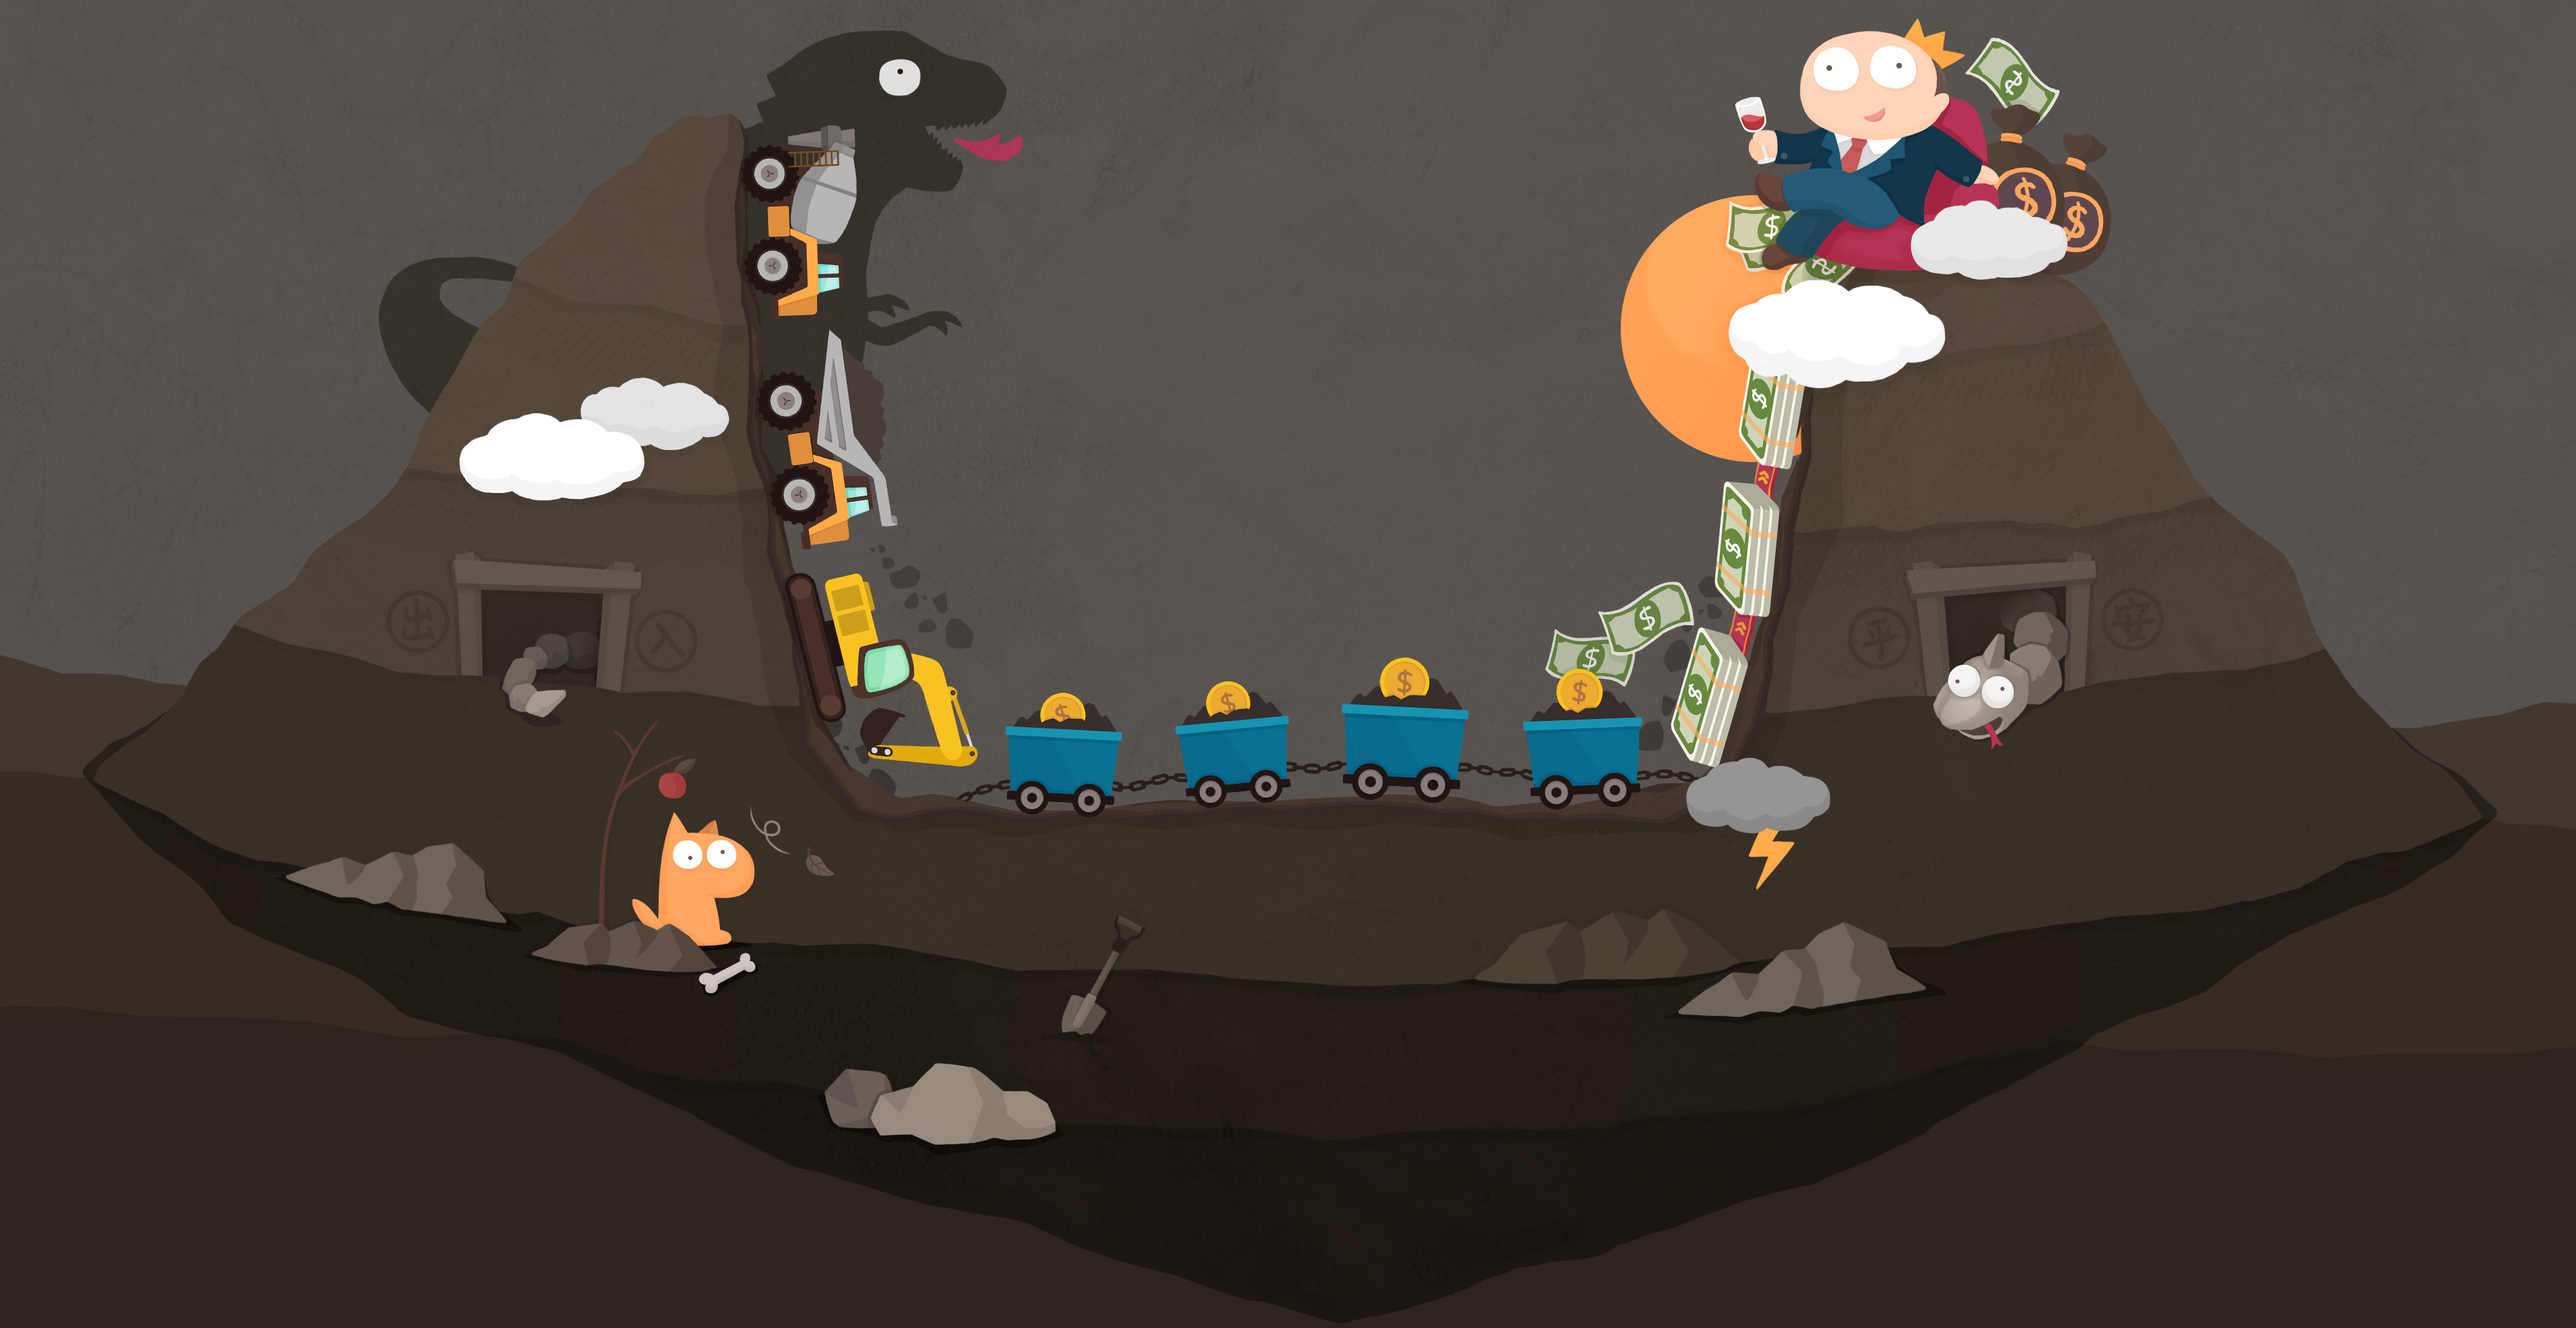
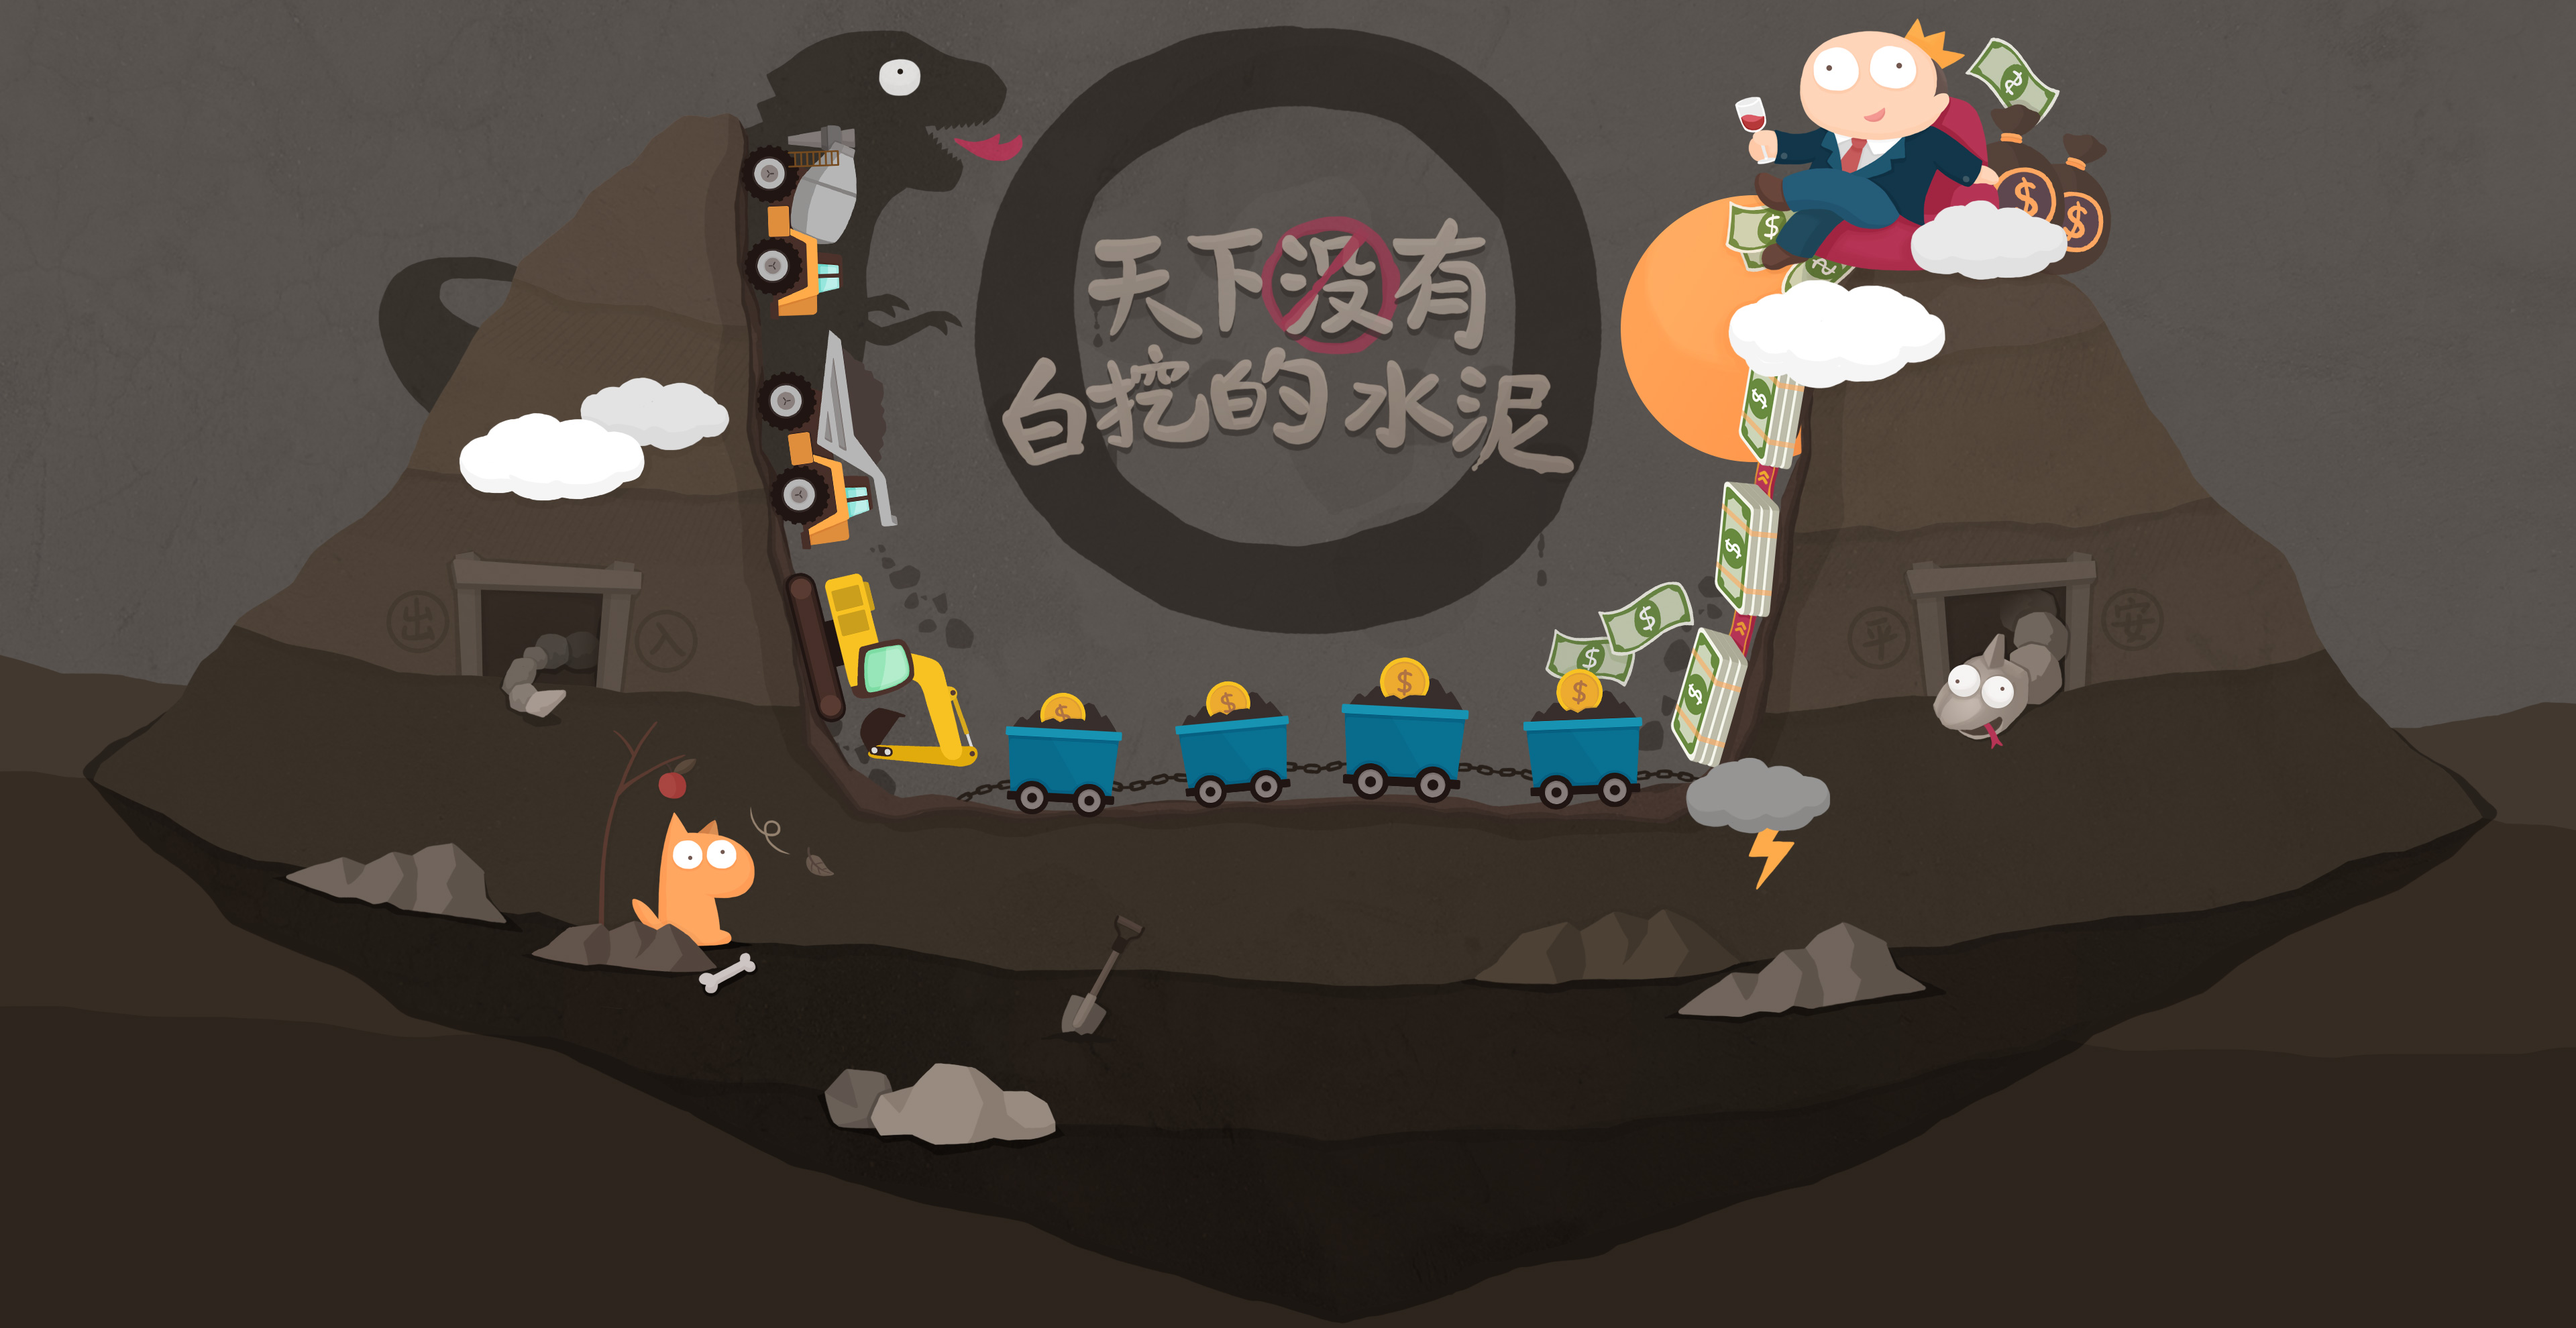
*add vdata image *update content

Changed region(s): [[0.375, 0.0, 0.625, 0.4929]]

diff --git a/mining/css/layout.css b/mining/css/layout.css
@@ -33,7 +33,7 @@ background-image:url("../images/logo.png"); background-repeat:no-repeat; backgro
 }
 
 /*--- top intro ---*/
-.topintro {width:740px; margin-bottom:120px;}
+.topintro {max-width:740px; position:relative; top:-120px;}
 
 /* --- section ---*/
 .section {position:relative; margin:0 auto;}
@@ -99,8 +99,8 @@ background-color:#ab7b6b; border-radius:2px;
 .imgwpr {position:relative; margin:0 auto;}
 .imgwpr img {margin:0 auto; max-width:100%;}
 
-.c01-1 {width:600px;}
-.c01-2 {width:600px; height:167px;}
+.c01-1 {max-width:600px;}
+.c01-2 {max-width:600px; height:167px;}
 .c01-2__cargo {width:317px; height:167px; position:absolute; left:253px; top:0;
 background-image:url("../images/vdata/c-cargo.png"); background-repeat:no-repeat; background-size:317px auto;
 }
@@ -108,14 +108,14 @@ background-image:url("../images/vdata/c-cargo.png"); background-repeat:no-repeat
 background-color:#271f19; border-radius:100%;
 }
 
-.c02 {width:720px; height:560px;
+.c02 {max-width:720px; height:560px;
 background-color:#362822; border-radius:20px;
 }
 .c02__cheap {width:251px; height:169px; position:absolute; right:-52px; top:-52px;
 background-image:url("../images/vdata/c-cheap.png"); background-repeat:no-repeat; background-size:251px auto;
 }
 
-.c05 {width:600px;}
+.c05 {max-width:600px;}
 .c05__intro {margin-left:32px; margin-bottom:0;
 font-size:18px; color:#b8b6b4; line-height:30px;
 }
@@ -127,8 +127,92 @@ border-radius:36px; background-color:#207a7d;
 }
 
 
-.c06 {width:800px;}
-.c06__intro {width:560px; margin:0 auto; color:#d8d7d6;}
+.c06 {max-width:800px;}
+.c06__intro {width:70%; margin:0 auto 50px auto; color:#d8d7d6;}
+
+/* --- make choice ---*/
+.choice {
+background-color:#46362e; border-top:45px solid #221c16; border-bottom:45px solid #221c16;
+}
+.choice__title {display:inline-block; height:80px; position:relative; top:-66px; margin-bottom:-16px;
+background-image:url("../images/choicetitle-bg1.png"); background-repeat:no-repeat; background-size:auto 80px;
+}
+.choice__title:after {content:""; display:block; width:67px; height:80px;
+position:absolute; right:-67px; top:0;
+background-image:url("../images/choicetitle-bg2.png"); background-repeat:no-repeat; background-size:auto 80px;
+}
+.choice__title span {display:inline-block; padding:0 61px 0 128px;
+line-height:66px; font-size:34px; font-weight:bold; color:#fff; letter-spacing:1px;
+}
+.choice__intro {max-width:850px; margin:0 auto 40px auto;
+color:#fff;
+}
+.choice__box {width:606px; height:400px; margin:0 auto 80px auto; position:relative;}
+.choice__box:before,.choice__box:after {content:""; display:block; position:absolute; left:50%; top:50%;}
+.choice__box:before {width:400px; height:400px; margin:-200px 0 0 -200px;
+background-color:#8e735b; border-radius:100%; box-shadow:0 0 8px rgba(0,0,0,0.2);
+}
+.choice__box:after {width:320px; height:320px; margin:-170px 0 0 -170px;
+background-color:#382e24; border-radius:100%; border:10px solid #352a27;
+background-image:url("../images/choice-text.png"); background-repeat:no-repeat;
+background-size:290px auto; background-position:center 99px;
+}
+
+.choice__hand {width:135px; height:157px; position:absolute; top:240px; z-index:200; 
+background-repeat:none; background-size:135px auto; cursor:pointer;
+transition:400ms top;
+}
+.choice__hand:hover {top:225px;}
+.choice__hand.left {left:112px;
+background-image:url("../images/choice-lefthand.png"); background-position:left top;
+}
+.choice__hand.right {right:112px;
+background-image:url("../images/choice-righthand.png"); background-position:left top;
+}
+
+.choice__hand--disabled {width:135px; height:157px; position:absolute; top:0; left:0;
+background-repeat:none; background-size:135px auto;
+opacity:0; transition:400ms opacity;
+}
+.left .choice__hand--disabled {
+background-image:url("../images/choice-lefthand.png"); background-position:left bottom;
+}
+.right .choice__hand--disabled {
+background-image:url("../images/choice-righthand.png"); background-position:left bottom;
+}
+
+.choice__cloud {position:absolute; z-index:200;
+background-image:url("../images/choice-cloud.png"); background-repeat:none;
+background-repeat:none; background-size:auto 73px;
+}
+.choice__cloud.left {width:153px; height:73px; left:0; top:63px;
+background-position:left top;
+}
+.choice__cloud.right {width:110px; height:56px; right:0; top:11px;
+background-position:right top;
+}
+
+.choice__pilltext {position:absolute; top:180px;
+white-space:nowrap;
+}
+.choice__pilltext h2 {margin-bottom:6px;
+font-size:28px; font-weight:bold; color:#fff;    
+
+}
+.choice__pilltext p {}
+
+.choice__pilltext.blue {text-align:right; right:518px;}
+.choice__pilltext.red {text-align:left; left:518px;}
+
+.choice__pilltext i {width:12px; height:12px; display:inline-block; margin-right:12px;
+position:relative; top:-6px; left:2px;
+border-radius:100%;
+}
+.choice__pilltext.blue i {background-color:#008efa;}
+.choice__pilltext.red i {background-color:#e4305a;}
+
+.choice-result {background-color:#271f19; padding:80px 0;}
+.choice-result__img {max-width:1134px;}
 
 
 /* --- table ---*/

diff --git a/mining/index.html b/mining/index.html
@@ -119,12 +119,49 @@
     </h3>
     <!--<div class="vsub"><div class="vsub__inner centerwpr">104年底開工礦場分佈圖</div></div>-->
     <div class="imgwpr c06">
-        <p class="c06__intro">大理石礦每年的開採量是金屬與非金屬礦的90%以上，又有75%是作為水泥原料。而目前政府定調水泥業為「內銷導向」，並搭配「大理石礦開採總量限制」逐年降低開採量。但實際上，實際開採量每年都達不到管制量。</p>
+        <p class="c06__intro">礦務局透過「大理石礦開採總量限制」逐年降低開採量，但實際上，因應消費市場需求減少，開採量每年都達不到管制量，每年卻還是訂下高於去年開採量的管制量。</p>
+
+        <img src="images/vdata/c06-1.png" alt="" />
+
+    </div>   
+
+
+</div>
+
+<div class="section fullwidth choice">
+    <div class="choice__title">
+        <span>是時候做出選擇</span>
+    </div>
+
+    <p class="choice__intro">此處放置一段引言，但現在我是假文。グローバル化を背景に、感染症が拡大するスピードも加速している。2009年春にメキシコで流行が始まった新型インフルエンザは、隣の米国でも発症後わずか２カ月で約110カ国に拡大。ジカ熱も2015年に流行が本格化してから１年余りで世界に広がった。</p>
+
+    <div class="choice__box">
+        <div class="choice__hand left">
+            <div class="choice__hand--disabled"></div>  
+        </div>
+        <div class="choice__hand right">
+            <div class="choice__hand--disabled"></div>
+        </div>
+        <div class="choice__cloud left"></div>
+        <div class="choice__cloud right"></div>
+
+        <div class="choice__pilltext blue">
+            <h2><i></i>藍色藥丸</h2>
+            <p>憑什麼要賠錢？馬英九還我牛</p>            
+        </div>
+
+        <div class="choice__pilltext red">
+            <h2><i></i>紅色藥丸</h2>
+            <p>為了環保，硬吞空心菜</p>            
+        </div>
     </div>
     
+</div>
 
-    <div style="height:400px;"></div>
-
+<div class="section fullwidth choice-result">
+    <div class="choice-result__img imgwpr">
+        <img src="images/choice-result-red.png" />
+    </div>
 </div>
 
 
